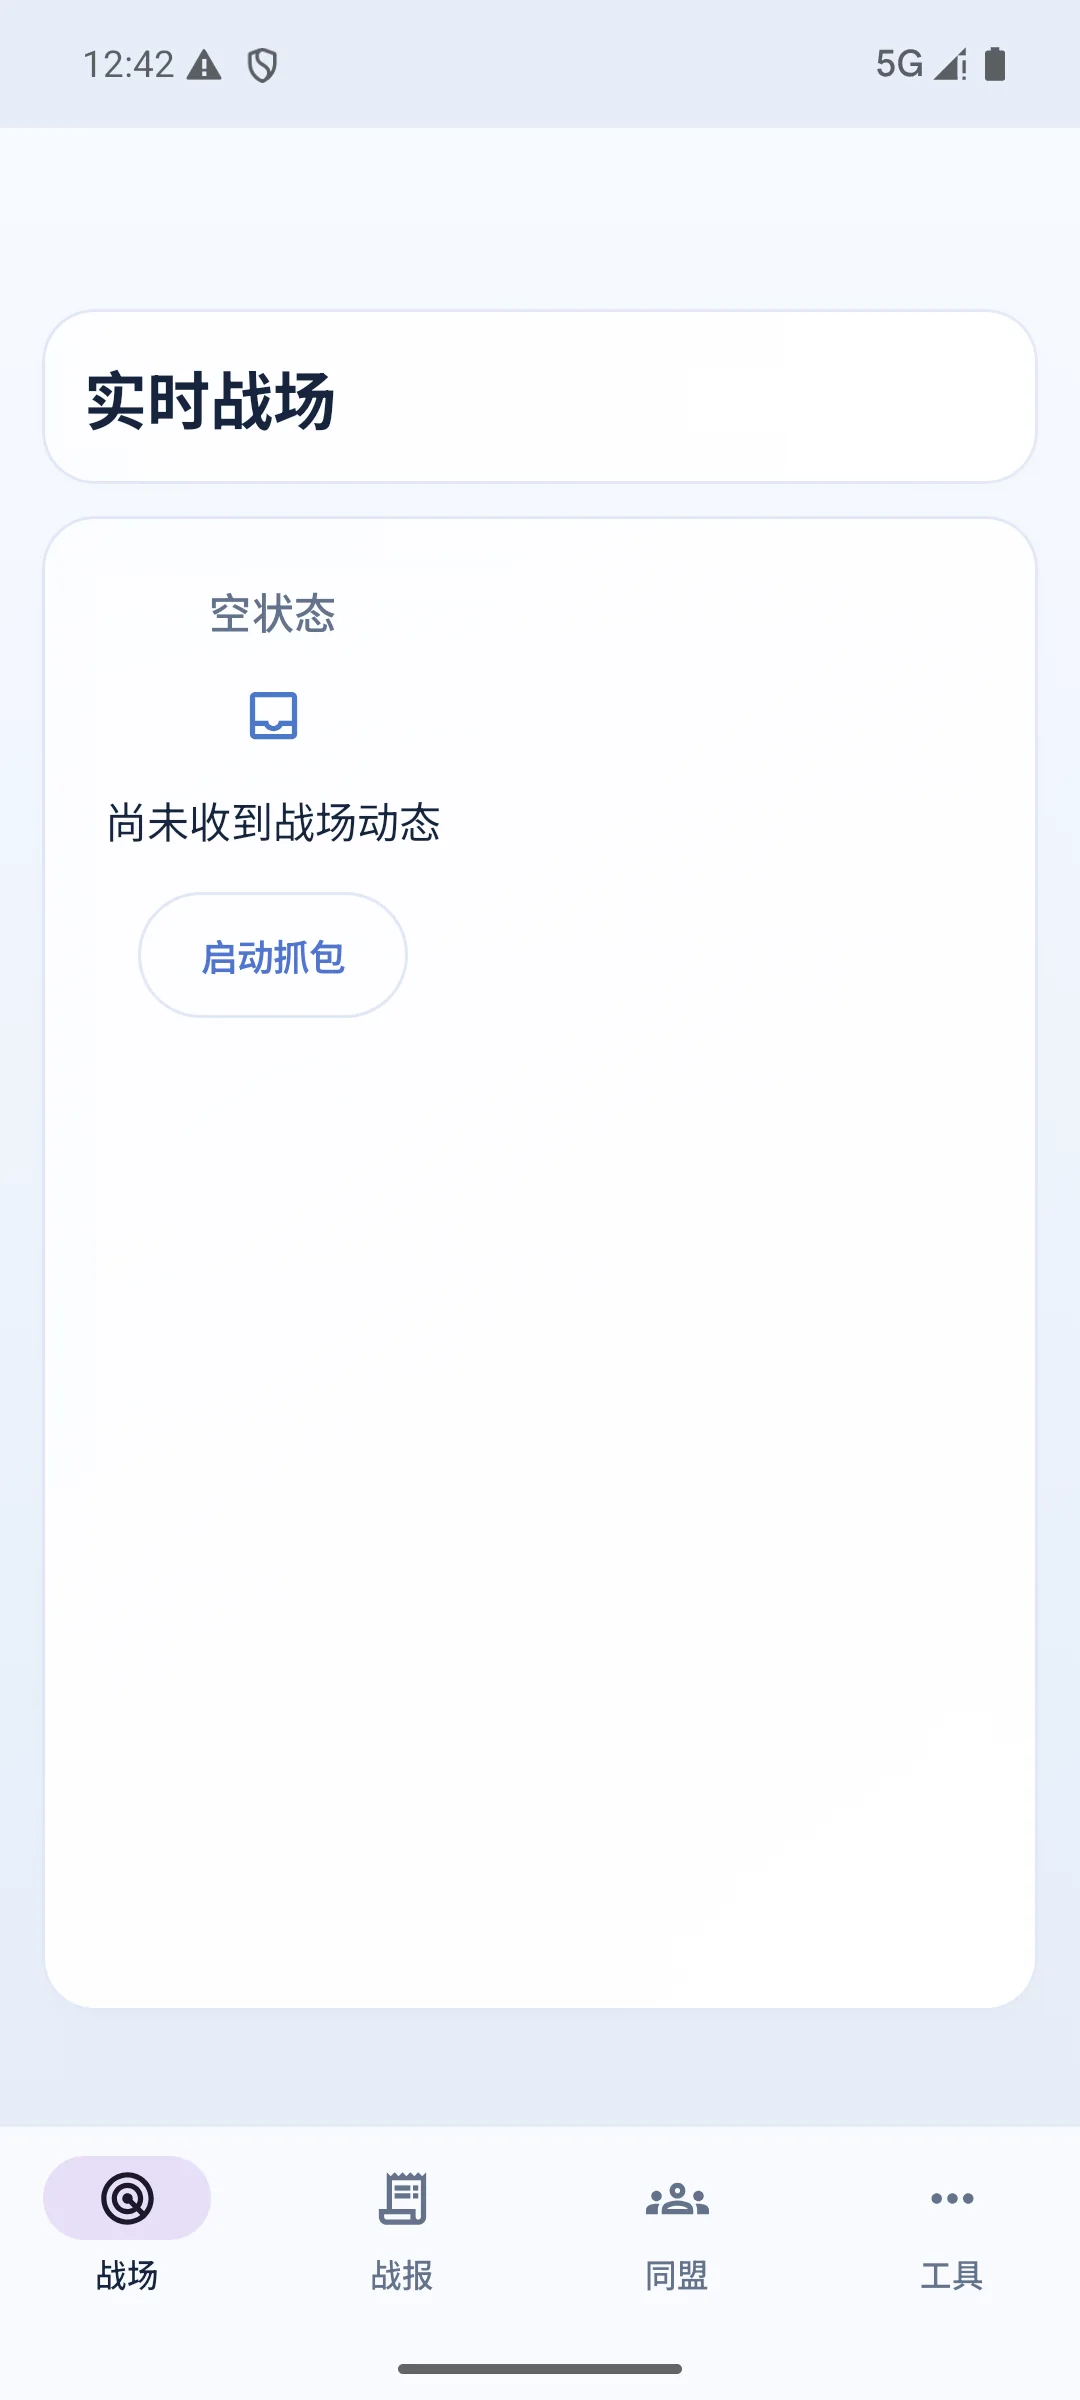
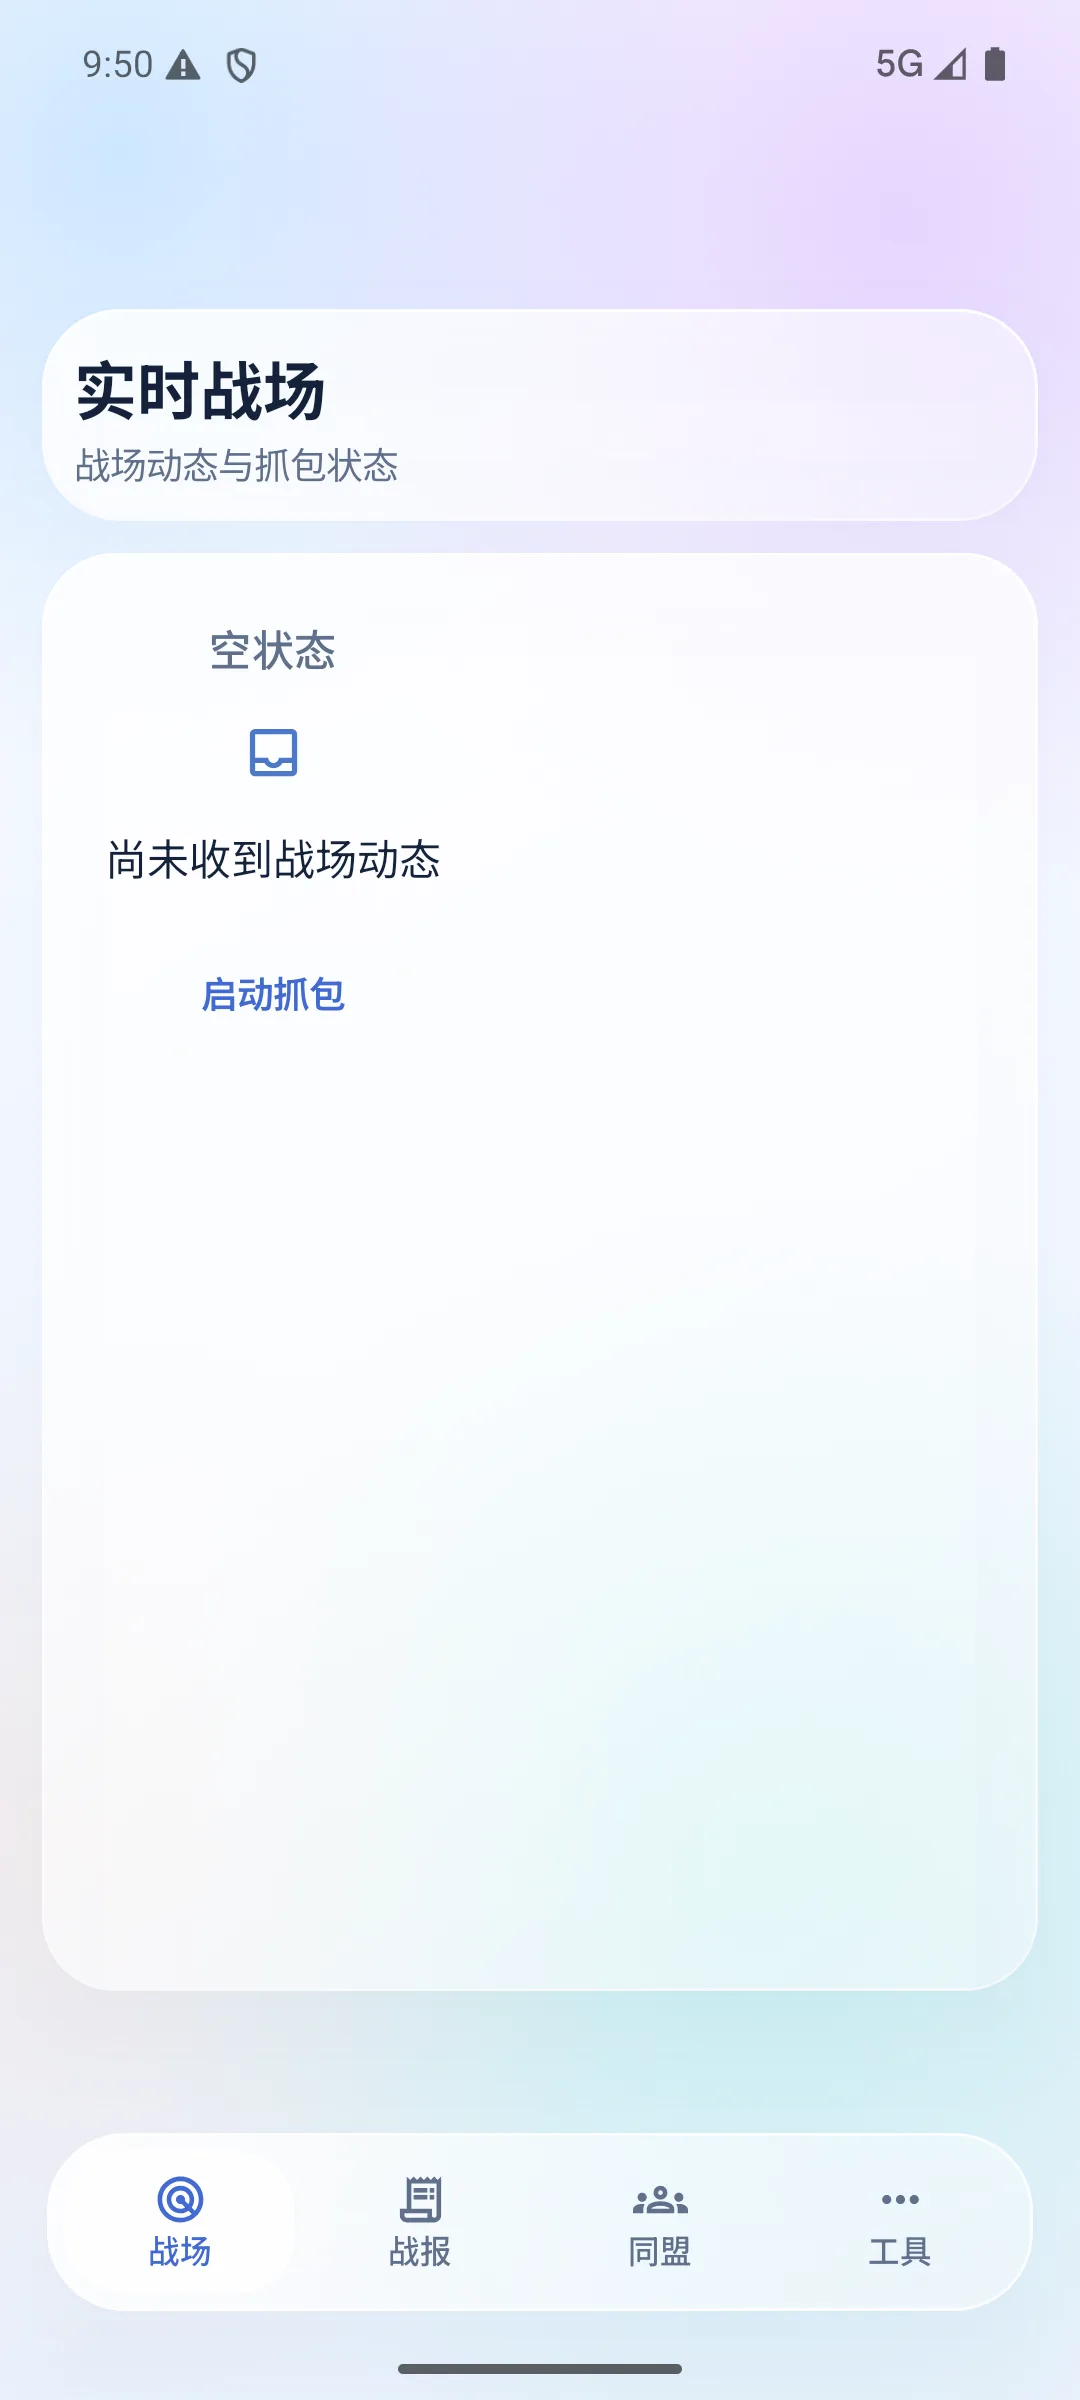
docs: restore product screenshots

diff --git a/README.md b/README.md
@@ -4,6 +4,40 @@
 
 ## 问题反馈：QQ群 `1063894809`
 
+## 产品预览
+
+### Web 端
+
+![Web 战场情报](docs/assets/screenshots/overview-intelligence.webp)
+
+Web 端用于查看战场情报、实时部队、队伍分析、积分和战术推演。
+
+### Web 功能示例
+
+| 实时部队 | 战斗模拟 |
+|---|---|
+| ![Web 实时部队](docs/assets/screenshots/gallery-live-army.webp) | ![Web 战斗模拟](docs/assets/screenshots/gallery-simulator.webp) |
+
+| 阵容战法研究 | 自定义积分 |
+|---|---|
+| ![Web 阵容战法研究](docs/assets/screenshots/gallery-research.webp) | ![Web 自定义积分](docs/assets/screenshots/gallery-score.webp) |
+
+| 打城考勤 | 玩家队伍 |
+|---|---|
+| ![Web 打城考勤](docs/assets/screenshots/gallery-attendance.webp) | ![Web 玩家队伍](docs/assets/screenshots/gallery-player-teams.webp) |
+
+### Android 端
+
+| 战场 | 战报 |
+|---|---|
+| ![Android 战场](docs/assets/screenshots/android-battlefield.webp) | ![Android 战报](docs/assets/screenshots/android-teams.webp) |
+
+| 工具中心 | 战术演练 |
+|---|---|
+| ![Android 工具中心](docs/assets/screenshots/android-simulator.webp) | ![Android 战术演练](docs/assets/screenshots/android-tactical-drill.webp) |
+
+移动端支持战场查看、战报浏览、工具操作和战术演练。
+
 ## Windows 版
 
 ### 下载
